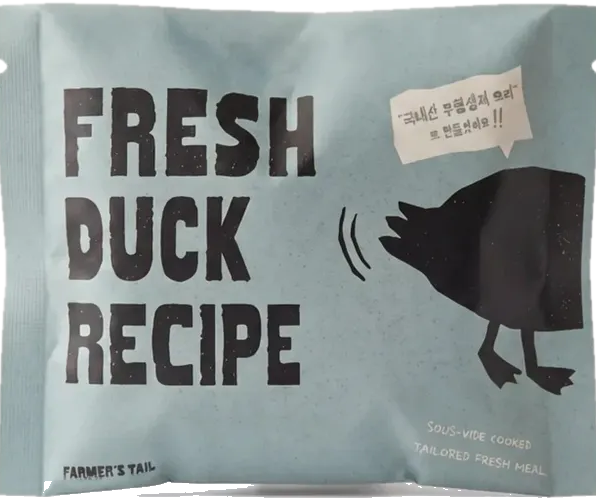
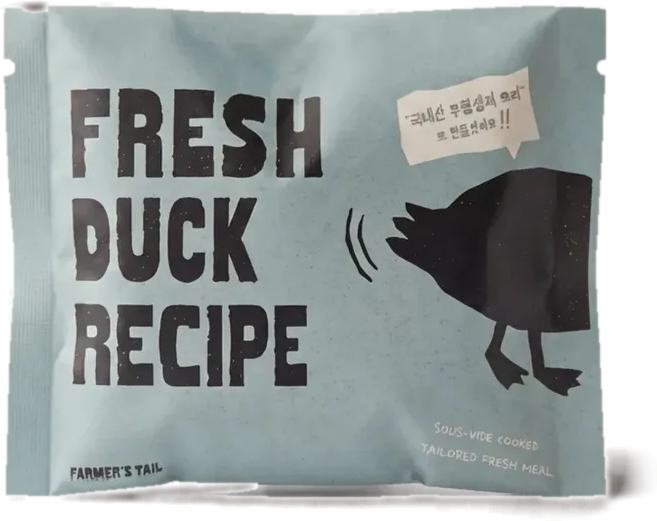
상세페이지 파우치 누끼 다시 따기 — 흰 테두리 제거 · 원래 그림자 살림
배경을 곡면으로 맞추고 가장자리 2px 깎기 + 안쪽 색 밀어 채우기로 흰 띠를 없앴다.
원래 사진의 바닥 그림자를 반투명 층으로 살리고(tools/cutout.py), 파우치 뒤에 옅은
조명을 깔아 같은 색 바탕(한우 = 빨강)에 묻히지 않게 했다.

Claude-Session: https://claude.ai/code/session_01NyhRFby31Z39ofviLPZVzg

diff --git a/docs/detail-page/index.html b/docs/detail-page/index.html
@@ -85,7 +85,10 @@
   .chips { display: flex; flex-wrap: wrap; justify-content: center; gap: 10px; }
   .chips span { font-size: 26px; font-weight: 800; border: 3px solid currentColor; border-radius: 999px; padding: 3px 20px 5px; line-height: 1.35; background: #fff; }
 
-  .pouch { filter: drop-shadow(0 18px 18px rgba(30,20,16,.28)) drop-shadow(0 3px 4px rgba(30,20,16,.2)); }
+  /* 그림자는 원래 사진의 것을 살렸다(tools/cutout.py) — 여기선 공기 그림자만 옅게 */
+  .pouch { filter: drop-shadow(0 14px 20px rgba(30,20,16,.16)); }
+  /* 스튜디오 조명 — 파우치 뒤를 살짝 밝혀 같은 색 바탕에 묻히지 않게(한우 = 빨강 위 빨강) */
+  .spot { background-image: radial-gradient(ellipse 58% 52% at 50% 52%, rgba(255,255,255,.34), rgba(255,255,255,0) 70%); }
   .best { position: absolute; z-index: 3; }
   .paw { position: absolute; width: 90px; opacity: .9; }
   .drip, .scallop { display: block; width: 860px; position: relative; z-index: 1; }
@@ -316,7 +319,7 @@
   .info { padding: 120px 0 60px; }
   .info .wis { width: 620px; margin: 60px auto 0; }
   .tb { margin: 70px 50px 0; display: flex; align-items: stretch; overflow: hidden; }
-  .tb-l { flex: 1; display: flex; flex-direction: column; align-items: center; justify-content: center; padding: 30px 10px; background: var(--c); border-right: 4px solid var(--ink); }
+  .tb-l { flex: 1; display: flex; flex-direction: column; align-items: center; justify-content: center; padding: 30px 10px; background-color: var(--c); background-image: radial-gradient(ellipse 60% 50% at 50% 45%, rgba(255,255,255,.34), rgba(255,255,255,0) 70%); border-right: 4px solid var(--ink); }
   .tb-l .pouch { width: 300px; transform: rotate(-4deg); }
   .tb-l .nm { font-size: 36px; font-weight: 900; margin-top: 18px; background: #fff; border: 3px solid var(--ink); border-radius: 999px; padding: 2px 24px 6px; }
   table { width: 360px; flex: none; border-collapse: collapse; font-size: 28px; }
@@ -388,7 +391,7 @@
 
   <div class="recipe" style="padding-top:60px">
     <img class="wm" src="assets/wm_chicken.png">
-    <div class="stage">
+    <div class="stage spot">
       <img class="pouch" src="assets/pouch_chicken.png"><img class="best" src="assets/best.png">
       <span class="ko">치킨 화식</span>
     </div>
@@ -402,7 +405,7 @@
 </section>
 <section id="s04b-hanwoo" class="c recipe" style="background:var(--red)">
     <img class="wm" src="assets/wm_hanwoo.png">
-    <div class="stage">
+    <div class="stage spot">
       <img class="pouch" src="assets/pouch_beef.png">
       <span class="ko">한우 화식</span>
     </div>
@@ -414,7 +417,7 @@
 </section>
 <section id="s04c-pork" class="c recipe" style="background:var(--pork)">
     <img class="wm" src="assets/wm_pork.png">
-    <div class="stage">
+    <div class="stage spot">
       <img class="pouch" src="assets/pouch_pork.png"><img class="best" src="assets/best.png">
       <span class="ko">흑돼지 화식</span>
     </div>
@@ -426,7 +429,7 @@
 </section>
 <section id="s04d-duck" class="c recipe" style="background:var(--duck)">
     <img class="wm" src="assets/wm_duck.png">
-    <div class="stage">
+    <div class="stage spot">
       <img class="pouch" src="assets/pouch_duck.png">
       <span class="ko">오리 화식</span>
     </div>
@@ -529,7 +532,7 @@
   <p class="l2">4가지 특별한 레시피</p>
   <div class="grid4">
     <div class="rcard">
-      <div class="top" style="background:var(--mustard)"><img class="best" src="assets/best.png"><img class="pouch" src="assets/pouch_chicken.png"></div>
+      <div class="top spot" style="background-color:var(--mustard)"><img class="best" src="assets/best.png"><img class="pouch" src="assets/pouch_chicken.png"></div>
       <img class="bn" src="assets/bn_chicken.png">
       <div class="body">
         <h4 style="color:var(--mustard-d)">담백하고 부담 없는<br>닭고기 한 끼</h4>
@@ -538,7 +541,7 @@
       </div>
     </div>
     <div class="rcard">
-      <div class="top" style="background:var(--duck)"><img class="pouch" src="assets/pouch_duck.png"></div>
+      <div class="top spot" style="background-color:var(--duck)"><img class="pouch" src="assets/pouch_duck.png"></div>
       <img class="bn" src="assets/bn_duck.png">
       <div class="body">
         <h4 style="color:var(--duck-d)">고소하고 부드러운<br>오리 한 끼</h4>
@@ -547,7 +550,7 @@
       </div>
     </div>
     <div class="rcard">
-      <div class="top" style="background:var(--red)"><img class="pouch" src="assets/pouch_beef.png"></div>
+      <div class="top spot" style="background-color:var(--red)"><img class="pouch" src="assets/pouch_beef.png"></div>
       <img class="bn" src="assets/bn_hanwoo.png">
       <div class="body">
         <h4 style="color:var(--red-d)">기력이 필요한 날엔<br>든든한 한우 한 끼</h4>
@@ -556,7 +559,7 @@
       </div>
     </div>
     <div class="rcard">
-      <div class="top" style="background:var(--pork)"><img class="best" src="assets/best.png"><img class="pouch" src="assets/pouch_pork.png"></div>
+      <div class="top spot" style="background-color:var(--pork)"><img class="best" src="assets/best.png"><img class="pouch" src="assets/pouch_pork.png"></div>
       <img class="bn" src="assets/bn_pork.png">
       <div class="body">
         <h4 style="color:var(--pork-d)">든든하게 채우는<br>흑돼지 한 끼</h4>
@@ -671,10 +674,10 @@
   <h3>화식 칼로리 정보</h3>
   <p class="unit">(100g 기준)</p>
   <div class="kc-grid">
-    <div class="kc"><div class="top" style="background:var(--mustard)"><img class="pouch" src="assets/pouch_chicken.png"></div><div class="bot"><p class="nm">치킨 화식</p><p class="num" style="color:var(--mustard-d)">125<small>kcal</small></p></div></div>
-    <div class="kc"><div class="top" style="background:var(--duck)"><img class="pouch" src="assets/pouch_duck.png"></div><div class="bot"><p class="nm">오리 화식</p><p class="num" style="color:var(--duck-d)">130<small>kcal</small></p></div></div>
-    <div class="kc"><div class="top" style="background:var(--red)"><img class="pouch" src="assets/pouch_beef.png"></div><div class="bot"><p class="nm">한우 화식</p><p class="num" style="color:var(--red)">145<small>kcal</small></p></div></div>
-    <div class="kc"><div class="top" style="background:var(--pork)"><img class="pouch" src="assets/pouch_pork.png"></div><div class="bot"><p class="nm">흑돼지 화식</p><p class="num" style="color:var(--pork-d)">125<small>kcal</small></p></div></div>
+    <div class="kc"><div class="top spot" style="background-color:var(--mustard)"><img class="pouch" src="assets/pouch_chicken.png"></div><div class="bot"><p class="nm">치킨 화식</p><p class="num" style="color:var(--mustard-d)">125<small>kcal</small></p></div></div>
+    <div class="kc"><div class="top spot" style="background-color:var(--duck)"><img class="pouch" src="assets/pouch_duck.png"></div><div class="bot"><p class="nm">오리 화식</p><p class="num" style="color:var(--duck-d)">130<small>kcal</small></p></div></div>
+    <div class="kc"><div class="top spot" style="background-color:var(--red)"><img class="pouch" src="assets/pouch_beef.png"></div><div class="bot"><p class="nm">한우 화식</p><p class="num" style="color:var(--red)">145<small>kcal</small></p></div></div>
+    <div class="kc"><div class="top spot" style="background-color:var(--pork)"><img class="pouch" src="assets/pouch_pork.png"></div><div class="bot"><p class="nm">흑돼지 화식</p><p class="num" style="color:var(--pork-d)">125<small>kcal</small></p></div></div>
   </div>
   <div class="msg card"><b>국내산 재료를 가득 품은 파머스 레시피</b><br>수분과 영양은 듬뿍 채우고, 칼로리는<br><span class="hl"><b>100g당 평균 약 131 kcal</b></span>로 쏙 뺐습니다.<br>칼로리 안심하고 급여하세요!</div>
 </section>

diff --git a/docs/detail-page/tools/cutout.py b/docs/detail-page/tools/cutout.py
@@ -1,0 +1,97 @@
+"""스튜디오 파우치 사진(public/store/studio-*.webp) → 배경 따낸 PNG (assets/pouch_*.png).
+
+처음 판(밝기 문턱 + 바깥 채우기)은 '누끼 딴 티'가 났다 — 사장님 지적(2026-10-14).
+  · 테두리에 흰 띠(배경색이 묻은 가장자리 픽셀)
+  · 계단 같은 가장자리
+  · 원래 사진의 바닥 그림자가 사라져 붕 떠 보임
+그래서:
+  1) 배경을 평평한 한 색이 아니라 2차 곡면으로 맞춘다(스튜디오 조명이 위→아래로 어두워진다).
+  2) 파우치 = 맞춘 배경과 다른 곳. 가장자리를 2px 깎고 1px 부드럽게 → 흰 띠 제거.
+  3) 가장자리 색은 안쪽 색으로 밀어 채운다(배경색 번짐 제거).
+  4) 원래 사진의 그림자(맞춘 배경보다 어두운 만큼)를 반투명 그림자 층으로 살린다 — 진짜 그림자라 자연스럽다.
+"""
+import sys
+import numpy as np
+from collections import deque
+from PIL import Image, ImageFilter
+
+def shift_min(m, r):
+    out = m.copy()
+    for dy in range(-r, r + 1):
+        for dx in range(-r, r + 1):
+            out &= np.roll(np.roll(m, dy, 0), dx, 1)
+    return out
+
+def cut(src, dst):
+    im = Image.open(src).convert('RGB')
+    a = np.asarray(im).astype(np.float64)
+    H, W, _ = a.shape
+    yy, xx = np.mgrid[0:H, 0:W] / max(H, W)
+
+    # 1) 배경 곡면 — 가장자리 40px 띠를 표본으로 2차 다항식 맞춤
+    band = np.zeros((H, W), bool); band[:40] = band[-40:] = True; band[:, :40] = band[:, -40:] = True
+    lum = a.mean(-1)
+    band &= lum > np.percentile(lum[band], 20)        # 띠 안의 그림자·파우치 조각은 뺀다
+    X = np.stack([np.ones_like(xx), xx, yy, xx * xx, yy * yy, xx * yy], -1)
+    coef, *_ = np.linalg.lstsq(X[band], a[band], rcond=None)
+    bg = X @ coef
+    d = np.sqrt(((a - bg) ** 2).sum(-1))
+
+    # 2) 바깥(배경+그림자) = 가장자리에서 이어진, 색이 배경과 비슷한(채도 차 작은) 곳
+    chroma_d = np.abs((a - a.mean(-1, keepdims=True)) - (bg - bg.mean(-1, keepdims=True))).max(-1)
+    darker = (bg.mean(-1) - lum)
+    outside_like = (chroma_d < 9) & (darker > -10) & (darker < 70) & (d < 75)
+    seen = np.zeros((H, W), bool); q = deque()
+    for y in range(H):
+        for x in (0, W - 1):
+            if outside_like[y, x] and not seen[y, x]: seen[y, x] = True; q.append((y, x))
+    for x in range(W):
+        for y in (0, H - 1):
+            if outside_like[y, x] and not seen[y, x]: seen[y, x] = True; q.append((y, x))
+    while q:
+        y, x = q.popleft()
+        for yy2, xx2 in ((y + 1, x), (y - 1, x), (y, x + 1), (y, x - 1)):
+            if 0 <= yy2 < H and 0 <= xx2 < W and not seen[yy2, xx2] and outside_like[yy2, xx2]:
+                seen[yy2, xx2] = True; q.append((yy2, xx2))
+    obj = ~seen
+    # 작은 부스러기 제거 + 가장자리 2px 깎기
+    obj = shift_min(obj, 2)
+    alpha = Image.fromarray((obj * 255).astype(np.uint8)).filter(ImageFilter.GaussianBlur(0.9))
+    alpha = np.asarray(alpha).astype(np.float64) / 255
+
+    # 3) 가장자리 색 정리 — 안쪽(확실한 파우치) 색을 바깥으로 밀어 채운다
+    core = shift_min(obj, 2)
+    rgb = a.copy(); known = core.copy()
+    for _ in range(8):
+        acc = np.zeros_like(rgb); cnt = np.zeros((H, W))
+        for dy, dx in ((1, 0), (-1, 0), (0, 1), (0, -1)):
+            k = np.roll(np.roll(known, dy, 0), dx, 1)
+            acc += np.roll(np.roll(rgb, dy, 0), dx, 1) * k[..., None]; cnt += k
+        new = (~known) & (cnt > 0)
+        rgb[new] = acc[new] / cnt[new][:, None]; known |= new
+
+    # 4) 원래 그림자 — 배경보다 어두운 비율, 종이 결은 흐림으로 지운다
+    s = np.clip(darker / np.maximum(bg.mean(-1), 1), 0, 1) * seen
+    s = np.asarray(Image.fromarray((s * 255).astype(np.uint8)).filter(ImageFilter.GaussianBlur(3))).astype(np.float64) / 255
+    sh = np.clip((s - 0.015) * 5.5, 0, 0.8)
+    # 파우치 가까이만 — 멀리 떨어진 배경 얼룩은 그림자가 아니다
+    near = np.asarray(Image.fromarray((obj * 255).astype(np.uint8)).filter(ImageFilter.GaussianBlur(22))).astype(np.float64) / 255
+    sh *= np.clip(near * 6, 0, 1)
+
+    out = np.zeros((H, W, 4))
+    shadow_rgb = np.array([38, 28, 22], float)
+    # 그림자 위에 파우치를 얹는다 (straight alpha 합성)
+    a_out = alpha + sh * (1 - alpha)
+    col = (rgb * alpha[..., None] + shadow_rgb * (sh * (1 - alpha))[..., None]) / np.maximum(a_out, 1e-6)[..., None]
+    out[..., :3] = col; out[..., 3] = a_out * 255
+    img = Image.fromarray(np.clip(out, 0, 255).astype(np.uint8), 'RGBA')
+    bb = Image.fromarray((a_out > 0.02).astype(np.uint8) * 255).getbbox()
+    img.crop(bb).save(dst)
+    print(dst, img.crop(bb).size)
+
+if __name__ == '__main__':
+    import os
+    here = os.path.dirname(os.path.dirname(os.path.abspath(__file__)))
+    root = os.path.dirname(os.path.dirname(here))
+    for n in ['beef', 'chicken', 'duck', 'pork']:
+        cut(os.path.join(root, f'public/store/studio-{n}.webp'), os.path.join(here, f'assets/pouch_{n}.png'))
